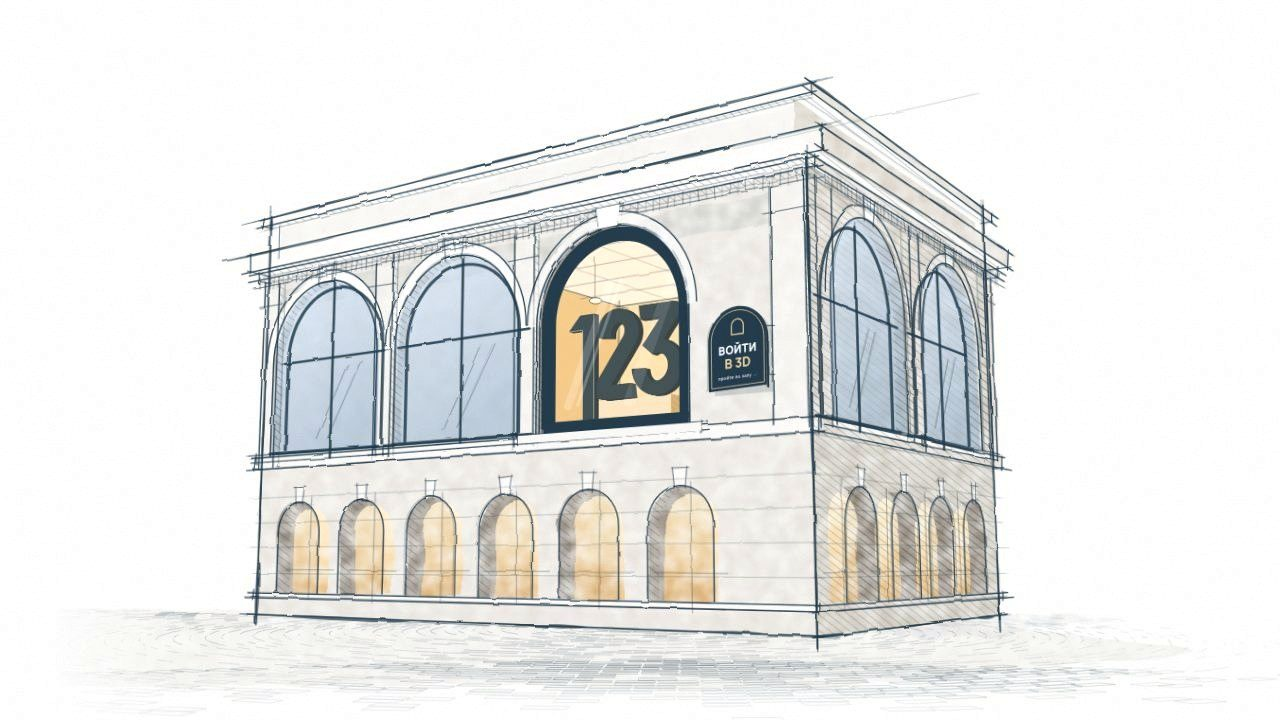
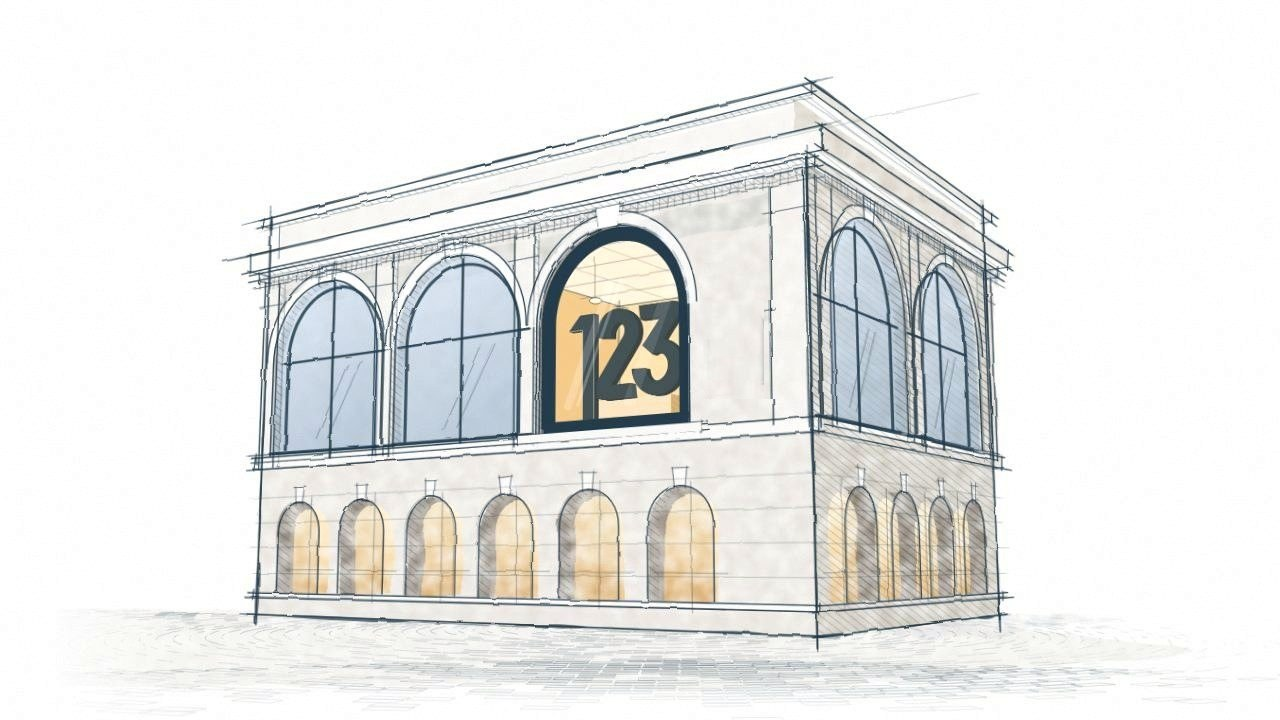
Add files via upload

Changed region(s): [[0.5312, 0.4278, 0.625, 0.55]]

diff --git a/index.html b/index.html
@@ -6,6 +6,9 @@
 <title>АРКА 123 · аренда зала с арочными окнами в Минске</title>
 <meta name="description" content="Светлый зал 123 м² с арочными окнами 4 × 3,5 м напротив Национальной библиотеки. Почасовая аренда, Минск, ул. Мстиславца, 10.">
 <meta name="theme-color" content="#213641">
+<link rel="icon" href="favicon.ico" sizes="32x32">
+<link rel="icon" href="favicon.svg" type="image/svg+xml">
+<link rel="apple-touch-icon" href="apple-touch-icon.png">
 <script>try{if(sessionStorage.getItem("arka_visited")==="1"&&location.hash!=="#intro")document.documentElement.classList.add("arka-skip")}catch(e){}</script>
 <link rel="preconnect" href="https://fonts.googleapis.com">
 <link rel="preconnect" href="https://fonts.gstatic.com" crossorigin>

diff --git a/ceny.html b/ceny.html
@@ -6,6 +6,9 @@
 <title>Цены и условия · АРКА 123</title>
 <meta name="description" content="Почасовая аренда зала в Минске от 90 BYN в час: тарифы, доплаты, условия брони, переноса и оплаты.">
 <meta name="theme-color" content="#213641">
+<link rel="icon" href="favicon.ico" sizes="32x32">
+<link rel="icon" href="favicon.svg" type="image/svg+xml">
+<link rel="apple-touch-icon" href="apple-touch-icon.png">
 <link rel="preconnect" href="https://fonts.googleapis.com">
 <link rel="preconnect" href="https://fonts.gstatic.com" crossorigin>
 <link rel="stylesheet" href="https://fonts.googleapis.com/css2?family=Roboto+Flex:opsz,wght@8..144,400;8..144,500;8..144,600&family=Roboto:wght@400;500&display=swap">

diff --git a/kontakty.html b/kontakty.html
@@ -6,6 +6,9 @@
 <title>Контакты · АРКА 123</title>
 <meta name="description" content="Адрес, телефон, Telegram и дорога к залу АРКА 123: Минск, ул. Мстиславца, 10, 7 минут от метро «Восток».">
 <meta name="theme-color" content="#213641">
+<link rel="icon" href="favicon.ico" sizes="32x32">
+<link rel="icon" href="favicon.svg" type="image/svg+xml">
+<link rel="apple-touch-icon" href="apple-touch-icon.png">
 <link rel="preconnect" href="https://fonts.googleapis.com">
 <link rel="preconnect" href="https://fonts.gstatic.com" crossorigin>
 <link rel="stylesheet" href="https://fonts.googleapis.com/css2?family=Roboto+Flex:opsz,wght@8..144,400;8..144,500;8..144,600&family=Roboto:wght@400;500&display=swap">

diff --git a/voprosy.html b/voprosy.html
@@ -6,6 +6,9 @@
 <title>Вопросы · АРКА 123</title>
 <meta name="description" content="Что входит в стоимость, вместимость, предоплата, перенос брони и парковка у зала АРКА 123.">
 <meta name="theme-color" content="#213641">
+<link rel="icon" href="favicon.ico" sizes="32x32">
+<link rel="icon" href="favicon.svg" type="image/svg+xml">
+<link rel="apple-touch-icon" href="apple-touch-icon.png">
 <link rel="preconnect" href="https://fonts.googleapis.com">
 <link rel="preconnect" href="https://fonts.gstatic.com" crossorigin>
 <link rel="stylesheet" href="https://fonts.googleapis.com/css2?family=Roboto+Flex:opsz,wght@8..144,400;8..144,500;8..144,600&family=Roboto:wght@400;500&display=swap">

diff --git a/formaty.html b/formaty.html
@@ -6,6 +6,9 @@
 <title>Форматы · АРКА 123</title>
 <meta name="description" content="Конференции, съёмки, шоурумы, офис на месяц и фуршеты в зале с арочными окнами в Минске.">
 <meta name="theme-color" content="#213641">
+<link rel="icon" href="favicon.ico" sizes="32x32">
+<link rel="icon" href="favicon.svg" type="image/svg+xml">
+<link rel="apple-touch-icon" href="apple-touch-icon.png">
 <link rel="preconnect" href="https://fonts.googleapis.com">
 <link rel="preconnect" href="https://fonts.gstatic.com" crossorigin>
 <link rel="stylesheet" href="https://fonts.googleapis.com/css2?family=Roboto+Flex:opsz,wght@8..144,400;8..144,500;8..144,600&family=Roboto:wght@400;500&display=swap">

diff --git a/politika.html b/politika.html
@@ -6,6 +6,9 @@
 <title>Политика обработки данных · АРКА 123</title>
 <meta name="description" content="Как АРКА 123 обрабатывает данные из заявок на аренду зала.">
 <meta name="theme-color" content="#213641">
+<link rel="icon" href="favicon.ico" sizes="32x32">
+<link rel="icon" href="favicon.svg" type="image/svg+xml">
+<link rel="apple-touch-icon" href="apple-touch-icon.png">
 <link rel="preconnect" href="https://fonts.googleapis.com">
 <link rel="preconnect" href="https://fonts.gstatic.com" crossorigin>
 <link rel="stylesheet" href="https://fonts.googleapis.com/css2?family=Roboto+Flex:opsz,wght@8..144,400;8..144,500;8..144,600&family=Roboto:wght@400;500&display=swap">

diff --git a/zal.html b/zal.html
@@ -6,6 +6,9 @@
 <title>Зал · АРКА 123</title>
 <meta name="description" content="Фото, план, вместимость и оснащение зала 123 м² с арочными окнами 4 × 3,5 м в Минске.">
 <meta name="theme-color" content="#213641">
+<link rel="icon" href="favicon.ico" sizes="32x32">
+<link rel="icon" href="favicon.svg" type="image/svg+xml">
+<link rel="apple-touch-icon" href="apple-touch-icon.png">
 <link rel="preconnect" href="https://fonts.googleapis.com">
 <link rel="preconnect" href="https://fonts.gstatic.com" crossorigin>
 <link rel="stylesheet" href="https://fonts.googleapis.com/css2?family=Roboto+Flex:opsz,wght@8..144,400;8..144,500;8..144,600&family=Roboto:wght@400;500&display=swap">
